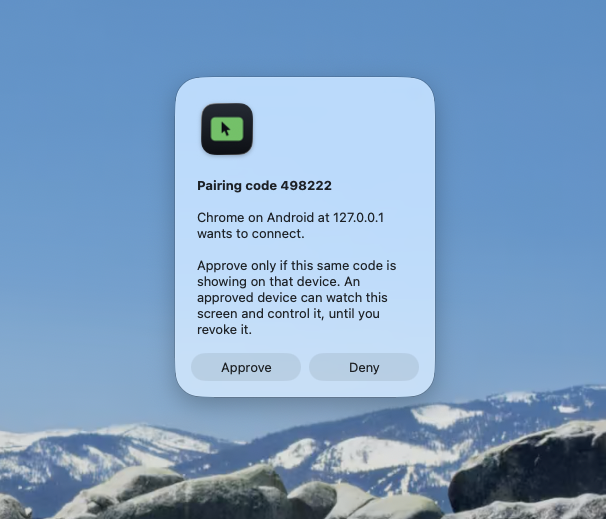
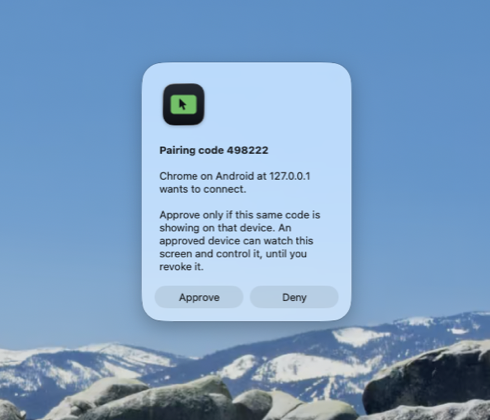
Give the README a product header instead of a wall of prose
The app icon, the name, what it does in one line, and a download button that
looks like a button. The badge version is a literal string because shields.io
cannot read a private repository, so scripts/release.sh moves it forward as
part of publishing rather than leaving it to go stale.

Badge label colours are #30363d rather than the app's near-black, which
disappeared into GitHub's dark theme. The two setup screenshots are scaled to a
matching height and shown side by side without a table, since the cell borders
and the ragged bottom edge made a decent graphic look like a spreadsheet.

diff --git a/README.md b/README.md
@@ -1,17 +1,23 @@
+<div align="center">
+
+<img src="docs/icon.png" alt="" width="104" height="104">
+
 # screenlink
 
-Watch and control this Mac from a browser — including your phone, from anywhere. A native Swift app
-captures the screen with ScreenCaptureKit, encodes it on the hardware H.264 engine, and streams it to
-a web page over a WebSocket. The page sends mouse and keyboard events back, which are injected as
-real system events.
+**Watch and control your Mac from your phone. From anywhere.**
 
-About 17 ms from capture to the browser's decoder at the default 1920 px, 56 fps, measured over a
-Cloudflare tunnel — see [Measured](#measured).
+[![Latest release](https://img.shields.io/badge/release-v0.1.0-3fb950?style=flat-square&labelColor=30363d)](https://github.com/dsalehipour/Screen-Link/releases/latest) [![macOS 14+](https://img.shields.io/badge/macOS-14+-6e7781?style=flat-square&labelColor=30363d&logo=apple&logoColor=white)](#requirements) [![Swift 6](https://img.shields.io/badge/Swift-6-6e7781?style=flat-square&labelColor=30363d&logo=swift&logoColor=white)](#why-it-is-fast) [![17 ms end to end](https://img.shields.io/badge/latency-17_ms-6e7781?style=flat-square&labelColor=30363d)](#measured)
 
-**[Download the latest release](https://github.com/dsalehipour/Screen-Link/releases/latest/download/screenlink.zip)**
-— 566 KB, Apple Silicon, macOS 14+. That link always resolves to the newest build; the
-[releases page](https://github.com/dsalehipour/Screen-Link/releases/latest) has the notes. See
-[Connect your phone](#connect-your-phone) for the two permissions and the first-open step.
+<a href="https://github.com/dsalehipour/Screen-Link/releases/latest/download/screenlink.zip"><img src="https://img.shields.io/badge/Download%20for%20macOS-238636?style=for-the-badge&logo=apple&logoColor=white" alt="Download screenlink for macOS" height="42"></a>
+
+<sub>566 KB · Apple Silicon · macOS 14 or later · always the newest build · <a href="https://github.com/dsalehipour/Screen-Link/releases/latest">release notes</a> · <a href="#connect-your-phone">two-minute setup</a></sub>
+
+</div>
+
+A native Swift app captures the screen with ScreenCaptureKit, encodes it on the hardware H.264 engine,
+and streams it to a web page over a WebSocket. The page sends mouse and keyboard events back, which
+are injected as real system events. About 17 ms from capture to the browser's decoder at the default
+1920 px, 56 fps, measured over a Cloudflare tunnel — see [Measured](#measured).
 
 Two consumers on one core:
 
@@ -28,16 +34,16 @@ Click **Reach this Mac from anywhere**, scan the code with your phone, and appro
 Mac asks. That is the entire setup, and all of it happens while you are stood at the computer — from
 then on you can walk away and watch and control this Mac from your phone, from anywhere in the world.
 
-<table>
-<tr>
-<td width="50%" valign="top"><img src="docs/menu-qr.png" alt="The screenlink menu, showing a QR code with Reach this Mac from anywhere turned on"></td>
-<td width="50%" valign="top"><img src="docs/approve-device.png" alt="A prompt on the Mac showing pairing code 498222 and asking whether Chrome on Android may connect"></td>
-</tr>
-<tr>
-<td valign="top"><b>One click, one scan.</b> Turning on <i>Reach this Mac from anywhere</i> puts a public web address in front of the Mac and shows it as a QR code. Any phone camera opens it — there is nothing to install on the phone.</td>
-<td valign="top"><b>Nothing connects without you.</b> Scanning only asks. The Mac shows a code, the phone shows the same code, and until you press Approve that device gets nothing — no picture, no control.</td>
-</tr>
-</table>
+<p align="center">
+<img src="docs/menu-qr.png" alt="The screenlink menu, showing a QR code with Reach this Mac from anywhere turned on">
+&nbsp;
+<img src="docs/approve-device.png" alt="A prompt on the Mac showing pairing code 498222 and asking whether Chrome on Android may connect">
+</p>
+
+Turning on *Reach this Mac from anywhere* puts a public web address in front of the Mac and shows it as
+a QR code, which any phone camera opens — there is nothing to install on the phone. Scanning it only
+*asks*. The Mac shows a code, the phone shows the same code, and until you press **Approve** that
+device gets nothing: no picture, no control.
 
 Approve it once and that phone can come back whenever it likes. Every *other* device that finds the
 link is a separate question you have to answer at the Mac, and you can withdraw any of them later from
